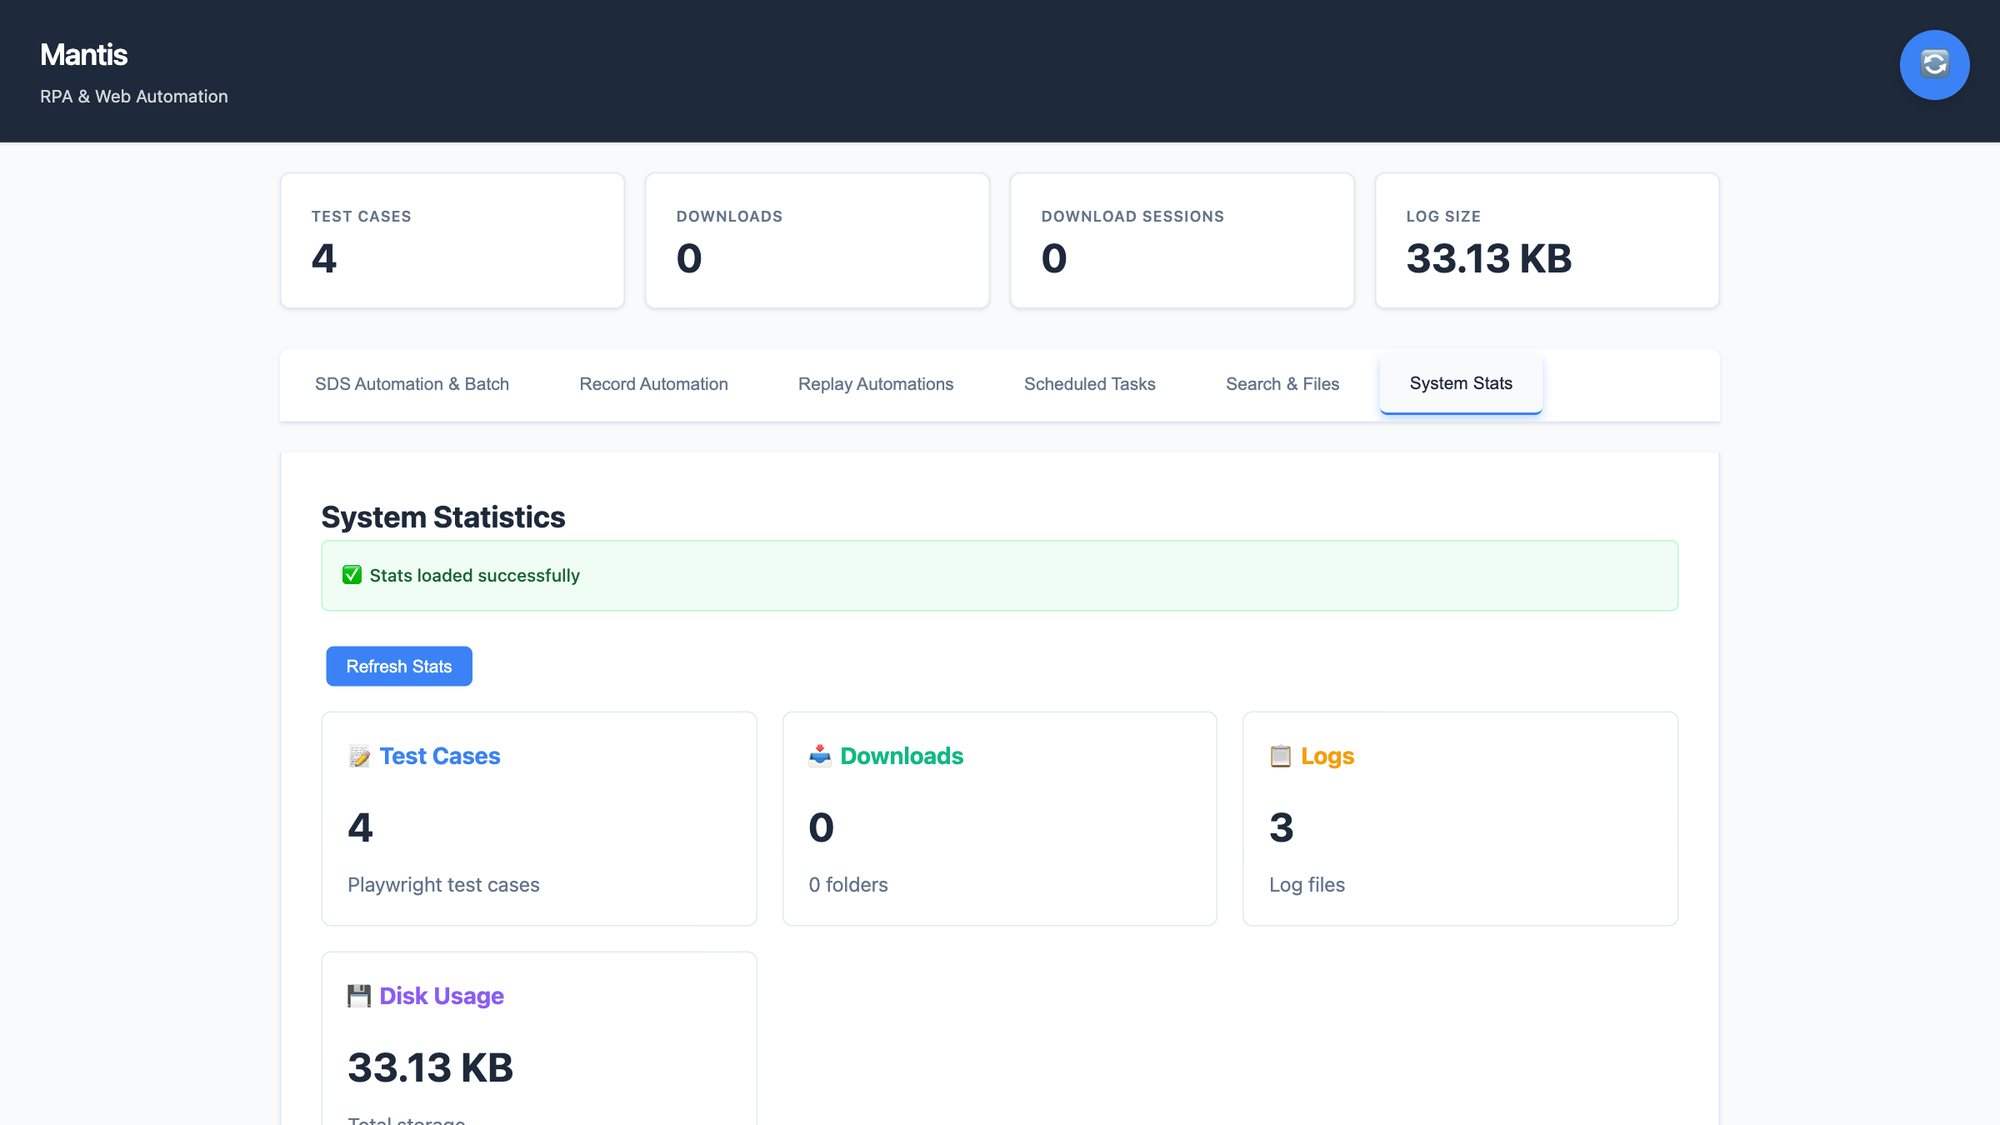
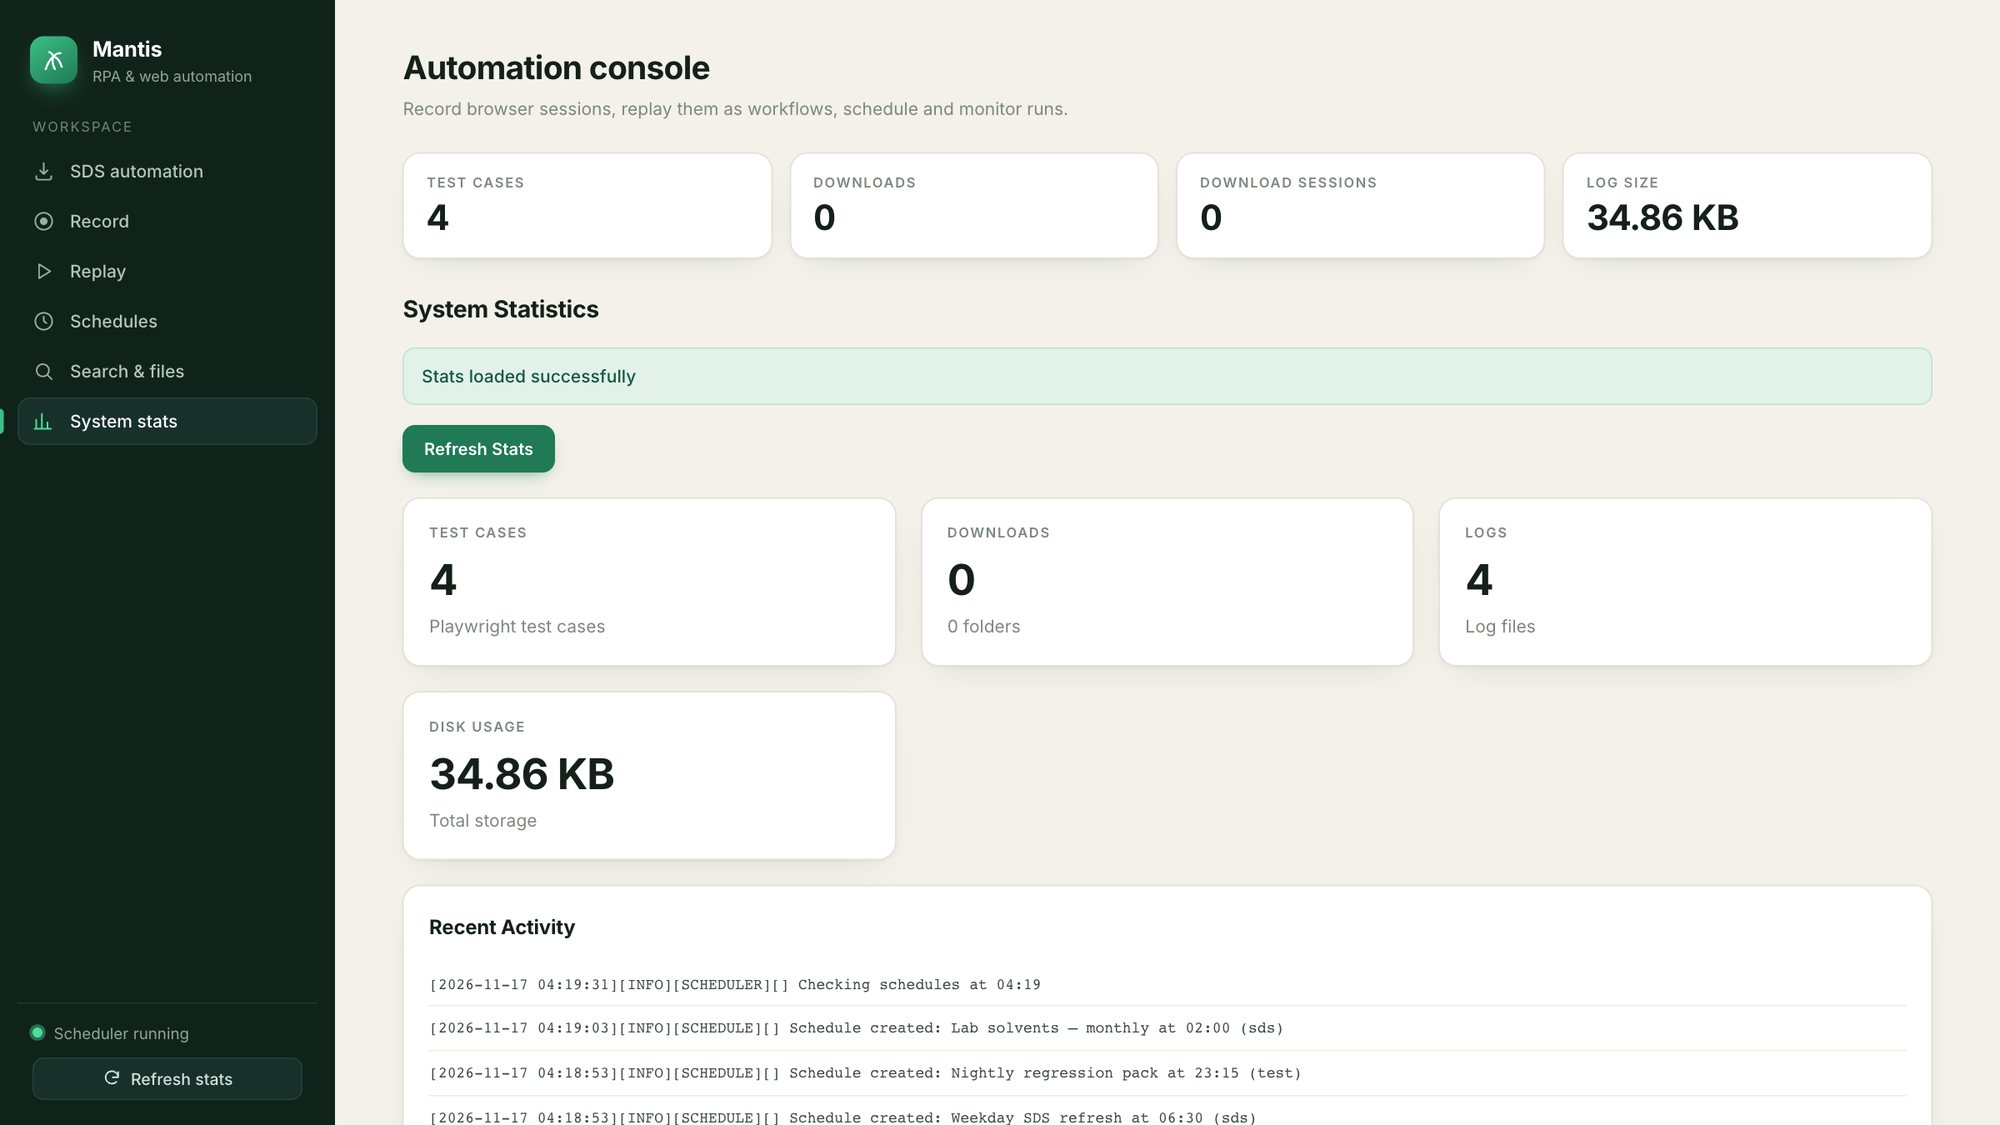
Refresh project case studies: real screenshots, SignalOps replaces Green Ring
DigiTwin gets five light-theme captures of its updated simulations
(burst main, road closure, street view, storm) and updated copy; Mantis,
the PII Detector and WinSpark get refreshed shots; SignalOps (Voice of
Store) moves into the six main projects with its own case study, so it
is dropped from the shelf list. Green Ring is removed.

diff --git a/js/data.js b/js/data.js
@@ -17,26 +17,36 @@ window.PROJECTS = [
       "PYTHON",
       "FASTAPI",
       "PYDANTIC",
-      "HTTPX",
       "NETWORKX",
+      "SCIPY",
       "OVERPASS API"
     ],
     "links": [],
     "gallery": [
       {
-        "src": "assets/digitwin-network.jpeg",
-        "alt": "DigiTwin: 3D London buildings with road and water-network overlays and the water simulation panel",
-        "cap": "The water network drawn over the OSM road graph, running locally"
+        "src": "assets/digitwin-burst.jpg",
+        "alt": "DigiTwin: a burst trunk main in Central London, with buildings coloured by water pressure and an impact panel",
+        "cap": "A burst trunk main: pressure falls around it and 183 buildings lose supply"
       },
       {
-        "src": "assets/digitwin-skyline.jpeg",
-        "alt": "DigiTwin: extruded OpenStreetMap buildings across the City of London over real terrain",
-        "cap": "OSM buildings extruded over real terrain"
+        "src": "assets/digitwin-city.jpg",
+        "alt": "DigiTwin: Central London as 3D buildings and terrain in the light theme, with the layers panel",
+        "cap": "Central London from local OpenStreetMap data — no token, no internet needed"
       },
       {
-        "src": "assets/digitwin-buildings.jpeg",
-        "alt": "DigiTwin: a single landmark highlighted among translucent building volumes",
-        "cap": "A single structure picked out of the city"
+        "src": "assets/digitwin-bridge.jpg",
+        "alt": "DigiTwin: Blackfriars Bridge closed to traffic, with rerouted journeys and an impact panel",
+        "cap": "Closing Blackfriars Bridge reroutes 79 trips and lengthens the average journey"
+      },
+      {
+        "src": "assets/digitwin-street.jpg",
+        "alt": "DigiTwin: street view standing on the closed Blackfriars Bridge with simulated traffic",
+        "cap": "Street view on the closed bridge, with simulated traffic"
+      },
+      {
+        "src": "assets/digitwin-storm.jpg",
+        "alt": "DigiTwin: a design storm over Central London, with flooded streets and a rainfall hydrograph",
+        "cap": "A 50 mm-in-an-hour storm: flooded streets, impassable roads and full drains"
       }
     ],
     "sections": [
@@ -56,22 +66,25 @@ window.PROJECTS = [
         "h": "WHAT I BUILT",
         "body": [
           "A FastAPI backend fetches OSM roads and water through the Overpass API, converts the result to GeoJSON, and builds a NetworkX graph of the water segments. Pressure propagates from source nodes through that graph, so passing a set of broken pipe IDs returns new per-segment pressures — which the viewer colourises in place.",
-          "Most of the engineering is in the middle: caching and falling back to local GeoJSON when Overpass is unreachable, reconciling messy map data into a graph clean enough to simulate, and keeping the Cesium scene in step with simulation state without re-rendering the city."
+          "Most of the engineering is in the middle: caching and falling back to local GeoJSON when Overpass is unreachable, reconciling messy map data into a graph clean enough to simulate, and keeping the Cesium scene in step with simulation state without re-rendering the city.",
+          "The model has since grown past water: a traffic layer that reroutes trips around closed roads, an incident timeline that plays a burst through isolation, repair and the road reopening, storm drainage and flooding from rainfall to street-level depth, A* routing for the repair crew, and a street-view mode to stand on the road you just closed."
         ]
       }
     ],
     "now": [
-      "3D BUILDINGS + TERRAIN",
-      "OSM ROAD + WATER OVERLAY",
-      "WATER PRESSURE SIMULATION",
-      "PIPE BREAK / REPAIR",
-      "BUILDING ISOLATION",
-      "ROAD CLOSURE STATE",
-      "LOCAL GEOJSON FALLBACK"
+      "3D BUILDINGS + TERRAIN, OFFLINE",
+      "WATER PRESSURE (HAZEN-WILLIAMS)",
+      "BURST / ISOLATE / REPAIR",
+      "TRAFFIC + ROAD CLOSURES",
+      "INCIDENT TIMELINE",
+      "STORM DRAINAGE + FLOODING",
+      "A* ROUTING",
+      "LANE-CLOSURE MICROSIMULATION",
+      "STREET VIEW",
+      "SCENARIO COMPARE + CSV EXPORT"
     ],
     "next": [
       "ELECTRICITY LAYER",
-      "TRAFFIC",
       "WEATHER",
       "IOT SENSORS"
     ]
@@ -128,13 +141,18 @@ window.PROJECTS = [
     ],
     "gallery": [
       {
-        "src": "assets/mantis-sds.jpg",
-        "alt": "Mantis dashboard: SDS automation tab with a product list and the start button, under summary counters",
-        "cap": "The Mantis dashboard — batch SDS automation"
+        "src": "assets/mantis-console.jpg",
+        "alt": "Mantis console: sidebar navigation, summary cards, the SDS automation form and saved product lists",
+        "cap": "The Mantis console — batch SDS automation with saved product lists"
+      },
+      {
+        "src": "assets/mantis-schedules.jpg",
+        "alt": "Mantis console: active schedules with their product lists and times",
+        "cap": "Schedules: recurring runs against a saved product list"
       },
       {
         "src": "assets/mantis-stats.jpg",
-        "alt": "Mantis dashboard: system statistics tab showing test cases, downloads, logs and disk usage",
+        "alt": "Mantis console: system statistics for test cases, downloads, logs and disk usage",
         "cap": "System statistics for the platform"
       }
     ]
@@ -198,77 +216,86 @@ window.PROJECTS = [
     ],
     "gallery": [
       {
-        "src": "assets/winspark-dark.jpg",
-        "alt": "WinSpark main window in dark theme: chat list on the left, per-chat automation, webhook URL and activity on the right",
-        "cap": "The main window, dark theme — demo contacts"
-      },
-      {
         "src": "assets/winspark-light.jpg",
-        "alt": "WinSpark main window in light theme",
-        "cap": "The same window, light theme"
+        "alt": "WinSpark main window in the light theme: chat list with automation badges, per-chat webhook settings and activity",
+        "cap": "The main window — demo contacts, from the project’s own docs"
       }
     ]
   },
   {
-    "id": "green-ring",
+    "id": "signalops",
     "num": "04",
     "roman": "IV",
-    "name": "Green Ring",
-    "title": "WhatsApp automation & messaging infrastructure",
-    "short": "A FastAPI bridge over WhatsApp messaging rather than a chat client: authenticated send and media operations, validated configuration, and MongoDB Atlas archival of everything that passes through.",
-    "tags": "Python · FastAPI · MongoDB Atlas",
-    "blurb": "Messaging infrastructure rather than a WhatsApp client: a FastAPI bridge exposing authenticated send and media operations, with every message archived to MongoDB Atlas.",
+    "name": "SignalOps",
+    "title": "Voice-of-Store engine — messy feedback into weekly actions",
+    "short": "Turns 40k messy multilingual store-feedback records into routed weekly actions and early-warning flags per region.",
+    "tags": "Python · scikit-learn · FastAPI · Leaflet",
+    "blurb": "Turns tens of thousands of messy, multilingual store-feedback records into a prioritised weekly action list per region, routes each issue to the team that owns it, and flags a store’s problem while it is still small.",
     "stack": [
       "PYTHON",
+      "SCIKIT-LEARN",
+      "PANDAS",
+      "SCIPY",
       "FASTAPI",
-      "UVICORN",
-      "PYDANTIC",
-      "HTTPX",
-      "PYMONGO",
-      "MONGODB ATLAS"
+      "LEAFLET",
+      "TOML CONFIG",
+      "PYTEST"
     ],
     "links": [
       {
         "label": "GITHUB ↗",
-        "href": "https://github.com/Varshith07827/green-ring"
+        "href": "https://github.com/Varshith07827/SignalOps"
+      }
+    ],
+    "gallery": [
+      {
+        "src": "assets/signalops-overview.jpg",
+        "alt": "SignalOps dashboard for the South region: this week's message counts, top five issues to act on and early warnings",
+        "cap": "The weekly view for one region — shown on a synthetic demo dataset"
+      },
+      {
+        "src": "assets/signalops-teams.jpg",
+        "alt": "SignalOps: who must act this week, per team, with escalation rules and deadlines",
+        "cap": "Who must act this week, and when to escalate"
+      },
+      {
+        "src": "assets/signalops-map.jpg",
+        "alt": "SignalOps: a store selected on the map, with its problems this week and the last one solved",
+        "cap": "Stores on the map: this week’s problems, and the last one solved"
       }
     ],
     "sections": [
       {
         "h": "WHAT IT IS",
         "body": [
-          "An HTTP layer that exposes WhatsApp messaging as ordinary infrastructure — authenticate, send, attach media — so other systems can treat it as a service instead of an app someone has to sit in front of."
+          "A grocery chain with 60 stores in five regions gets about 1,500 messages a week — online reviews, app comments, staff shift notes and call-centre transcripts — in English, Hinglish and transliterated Tamil and Marathi, with typos, emojis and shorthand. SignalOps reads all of it and answers one question: what should each team do this week?"
         ]
       },
       {
         "h": "WHY IT MATTERS",
         "body": [
-          "Messaging is where a lot of operational work actually happens. Once it is behind an API with authentication and a durable record, it can be automated, audited and joined to everything else."
+          "Real store problems — a broken freezer, a mislabelled allergen, a rude billing counter — are buried in that noise and reach head office weeks late. The value is in turning the noise into a short, owned, time-boxed action list, and in catching the small-but-rising problem before it is chain-wide."
         ]
       },
       {
         "h": "WHAT I BUILT",
         "body": [
-          "A FastAPI bridge over an OpenWA session: authenticated endpoints for sending text and uploaded media, httpx for the calls out, and Pydantic settings so configuration is validated at startup rather than discovered at runtime.",
-          "Every message passing through is archived to MongoDB Atlas through pymongo, which makes the system debuggable and gives downstream tools something to read. Shell installers register it as a service, so it runs as infrastructure rather than a script someone starts."
+          "A pipeline that labels every message with an issue type, a severity and whether anyone can act on it; routes each actionable issue to its owning team with an escalation level and deadline; merges the same incident reported through several channels; and writes a one-page brief per region per week with the top five issues, evidence quotes and a trend arrow.",
+          "The early-warning detector is causal: for any week it uses only feedback up to that Sunday, compares each store with its own baseline pulled toward the chain average, and flags a small, sharp rise with at least two messages as evidence. On the hackathon pack, cross-validated classification scored 0.945 against a 0.579 baseline, and 97% of the messages marked actionable truly were.",
+          "A FastAPI dashboard with a Leaflet store map sits on top; the web layer holds no analysis logic. Every threshold, window, weight and deadline lives in one config file, and 64 tests run on small synthetic data."
         ]
       }
     ],
     "now": [
-      "AUTH + SESSION HANDLING",
-      "SEND ENDPOINT",
-      "MULTIPART MEDIA UPLOAD",
-      "MONGODB ATLAS ARCHIVAL",
-      "VALIDATED CONFIG",
-      "SERVICE INSTALL SCRIPTS",
-      "POSTMAN COLLECTION"
-    ],
-    "gallery": [
-      {
-        "src": "assets/greenring-docs.jpg",
-        "alt": "OpenWA Bridge API reference served by the running FastAPI app, listing send, reply, react, forward, location, contact, poll, edit, delete and star endpoints",
-        "cap": "The bridge’s live API reference, served by the running FastAPI app"
-      }
+      "ISSUE TYPE + SEVERITY + ACTIONABLE",
+      "OWNER ROUTING WITH DEADLINES",
+      "WEEK-BY-WEEK EARLY WARNINGS",
+      "CROSS-CHANNEL DE-DUPLICATION",
+      "ONE-PAGE REGIONAL BRIEFS",
+      "STORE MAP + CASE LISTS",
+      "CHECK-A-NEW-REVIEW FORM",
+      "ALL THRESHOLDS IN ONE CONFIG",
+      "64 TESTS"
     ]
   },
   {
@@ -326,13 +353,13 @@ window.PROJECTS = [
     "gallery": [
       {
         "src": "assets/pii-scan.jpg",
-        "alt": "AI PII Detector: sample text with names, email, PAN, Aadhaar, date of birth and IP address highlighted as detections, with a critical risk assessment",
-        "cap": "A scan of fake sample data — detections highlighted and risk scored"
+        "alt": "PII Detector: a sample document with names, dates, email, PAN, Aadhaar and IP highlighted, a critical risk score of 98 and GDPR, DPDP and HIPAA flags",
+        "cap": "A scan of fictional sample data — every identifier highlighted, risk scored, compliance flagged"
       },
       {
         "src": "assets/pii-masked.jpg",
-        "alt": "AI PII Detector: the same text with its sanitised, partially masked output alongside",
-        "cap": "The same text, masked"
+        "alt": "PII Detector: the masked output tab, with partial masking applied to the same document",
+        "cap": "The same document, masked"
       }
     ]
   },

diff --git a/index.html b/index.html
@@ -122,7 +122,6 @@
       <div class="carnet">
         <h3 data-fade>Le Carnet <span class="it">— and more on the shelf</span></h3>
         <ul class="carnet-list" data-stagger>
-          <li><a class="carnet-item" href="https://github.com/Varshith07827/SignalOps" target="_blank" rel="noopener"><div class="leader"><b>SignalOps ↗</b><i></i><span>Python · NLP</span></div><p>Voice-of-Store engine: turns 40k messy multilingual store-feedback records into routed weekly actions and early-warning flags per region.</p></a></li>
           <li><a class="carnet-item" href="https://github.com/Varshith07827/Glyphs" target="_blank" rel="noopener"><div class="leader"><b>Glyph Studio ↗</b><i></i><span>Kotlin · Android</span></div><p>LED editor, battery indicator and charging effects for the Nothing Phone (3a) Glyph Interface — per-LED brightness across all 36 LEDs.</p></a></li>
           <li><a class="carnet-item" href="https://github.com/Varshith07827/ebpf" target="_blank" rel="noopener"><div class="leader"><b>eBPF Insight ↗</b><i></i><span>C · Go</span></div><p>Attributes latency to the specific process responsible by correlating kernel events. In progress: the scheduler and CPU-accounting slice works.</p></a></li>
           <li><a class="carnet-item" href="https://github.com/Varshith07827/Keynote" target="_blank" rel="noopener"><div class="leader"><b>Keynote ↗</b><i></i><span>TypeScript · Skia</span></div><p>Typography wallpaper editor for Android and iOS: grab the lettering and it bends. Interactive deformation on a Skia canvas.</p></a></li>

diff --git a/README.md b/README.md
@@ -31,4 +31,4 @@ then open <http://localhost:8000>.
 - Respects `prefers-reduced-motion`: no smooth scroll, pinning or loader.
 - The loader plays once per browser session; navigating between pages uses a curtain transition.
 - Hidden: the Konami code shows the visit counter.
-- Screenshots: Atlas, AI PII Detector, Mantis and Green Ring were captured from the running apps (PII with fake sample data); WinSpark's come from its own docs (it is Windows-only); DigiTwin's are cropped to the 3D viewport.
+- Screenshots: DigiTwin, Mantis, the AI PII Detector and SignalOps were captured from the running projects in their light themes (the PII scan uses fictional sample data; SignalOps runs the real engine on a clearly-labelled synthetic dataset because the hackathon pack isn't public). Atlas is dark-only, so its captures are dark. WinSpark is Windows-only, so its capture comes from the project's own docs.
